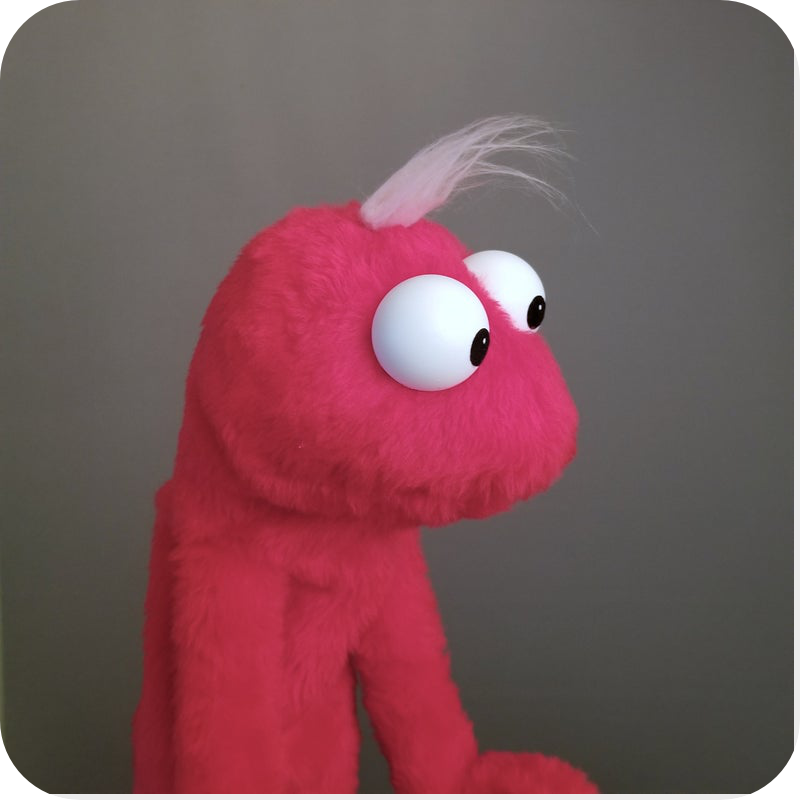
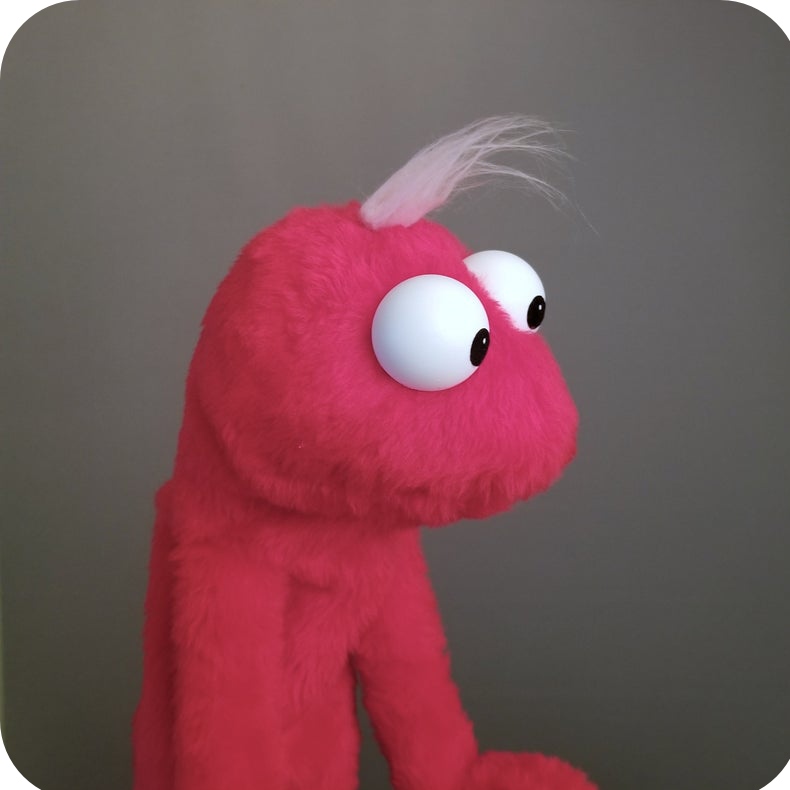
Monsters page ready state

diff --git a/php-practice/monsters/css/style.css b/php-practice/monsters/css/style.css
@@ -21,6 +21,16 @@ picture img {
 	height:  auto;
 }
 
+ul {
+	display: flex;
+	flex-direction: column;
+	align-items: center;
+}
+
+a {
+	text-decoration: none;
+}
+
 /* - - FONT - - */
 .header-voice {
 	font-family: Marker Felt;
@@ -31,9 +41,9 @@ picture img {
 
 .name {
 	font-family: Marker Felt;
-	font-size:  20px;
+	font-size:  25px;
 	text-align: center;
-	margin: 10px 0;
+	margin: 15px 0;
 }
 
 .age {
@@ -41,19 +51,55 @@ picture img {
 	margin: 8px 0;
 }
 
-/* - - ADOPT BUTTON - - */
- {
-	text-transform: uppercase;
-}
-
+/* - - NAV BAR - - */
 nav {
-	min-height: 70px;
+	display: flex;
+	justify-content: flex-end;
 }
 
-ul {
-	display: flex;
-	flex-direction: column;
-	align-items: center;
+
+nav ul {
+	min-height: 70px;
+	display: none;
+}
+
+.menu {
+	max-width: 50px;
+}
+
+@media (min-width: 700px) {
+	.menu {
+		display: none;
+	}
+
+	nav ul {
+		display: flex;
+		flex-direction: row;
+		gap: 15px;
+		padding: 5px 10px;
+		font-size: 26px;
+	}
+}
+/* - - ADOPT BUTTON - - */
+.adopted {
+	text-transform: uppercase;
+	font-size: 20px;
+	padding: 10px;
+	background-color: hsl(1, 85%, 51%);
+	text-align: center;
+	margin: 10px;
+	border-radius: 10px;
+}
+
+.not-adopted {
+	text-transform: uppercase;
+	font-size:  26px;
+	padding: 10px;
+	background-color: hsl(127, 70%, 61%);
+	text-align: center;
+	margin: 10px;
+	border-radius: 10px;
+	box-shadow: 10px 10px 10px black;
 }
 
 /* - - MONSTER CARDS - - */
@@ -61,24 +107,65 @@ ul {
 	padding: 10px;
 }
 
-monster-card {
-	border: 1px solid blue;
-	background-color:  blue;
+.card ul {
+	display: flex;
 }
 
+monster-card {
+	display: flex;
+	border-radius: 5%;
+	padding: 15px;
+	min-width: 270px;
+	min-height: 450px;
+	justify-content: center;
+}
+monster-card:hover {
+	transform: scale(1.2);
+	transition: all .2s ease-in-out;
+}
 
+@media (min-width: 700px) {
+	.card ul {
+		flex-direction: row;
+		flex-wrap: wrap;
+		align-items: flex-start;
+	}
 
+	mosnter-card {
+		min-height: 500px;
+	}
+}
 
+.story {
+	margin: 15px 0;
+}
+#a001 {
+	background-color:  hsl(354, 70%, 61%);
+}
 
+#a002 {
+	background-color:  hsl(347, 70%, 61%);
+}
 
+#a003 {
+	background-color:  hsl(102, 70%, 61%);
+}
 
+#a004 {
+	background-color:  hsl(217, 70%, 61%);
+}
 
+#a005 {
+	background-color:  hsl(50, 70%, 61%);
+}
 
+#a006 {
+	background-color:  hsl(22, 70%, 61%);
+}
 
-
-
-
-
+#a007 {
+	background-color:  hsl(270, 70%, 61%);
+}
 
 
 

diff --git a/php-practice/monsters/index.php b/php-practice/monsters/index.php
@@ -14,10 +14,13 @@
 		<header>
 			<section class='inner-column'>
 				<nav>
+					<div class="menu-wrapper">
+						<img class='menu' src="./images/hamburger-menu.png">
+					</div>
 					<ul>
-						<li>Home</li>
-						<li>Monsters</li>
-						<li>Contact</li>
+						<li><a href="#">Home</a></li>
+						<li><a href="#">Monsters</a></li>
+						<li><a href="#">Contact</a></li>
 					</ul>
 				</nav>
 			</section>
@@ -38,7 +41,7 @@
 					"favoriteFood" => "peas",
 					"age" => 199,
 					"adopted" => true,
-					"portrait" => "./images/codey.jpg",
+					"portrait" => "./images/codey.png",
 				];
 
 				$fragoo = [
@@ -49,7 +52,7 @@
 					"favoriteFood" => "shrimp and salmon",
 					"age" => 2,
 					"adopted" => false,
-					"portrait" => "./images/fragoo.jpg",
+					"portrait" => "./images/fragoo.png",
 				];
 
 				$lima = [
@@ -60,7 +63,7 @@
 					"favoriteFood" => "Lima beans",
 					"age" => 7,
 					"adopted" => false,
-					"portrait" => "./images/limabean.jpg",
+					"portrait" => "./images/limabean.png",
 				];
 
 				$reads = [
@@ -71,7 +74,7 @@
 					"favoriteFood" => "book worms",
 					"age" => 2022,
 					"adopted" => false,
-					"portrait" => "./images/miss-reads-a-lot.jpg",
+					"portrait" => "./images/miss-reads-a-lot.png",
 				];
 
 				$banana = [
@@ -82,7 +85,7 @@
 					"favoriteFood" => "banana peels",
 					"age" => 327,
 					"adopted" => true,
-					"portrait" => "./images/mr-banana.jpg",
+					"portrait" => "./images/mr-banana.png",
 				];
 
 				$orangina = [
@@ -104,7 +107,7 @@
 					"favoriteFood" => "day old worms",
 					"age" => 44,
 					"adopted" => true,
-					"portrait" => "./images/shadow.jpg",
+					"portrait" => "./images/shadow.png",
 				];
 
 				$monsters = [ 
